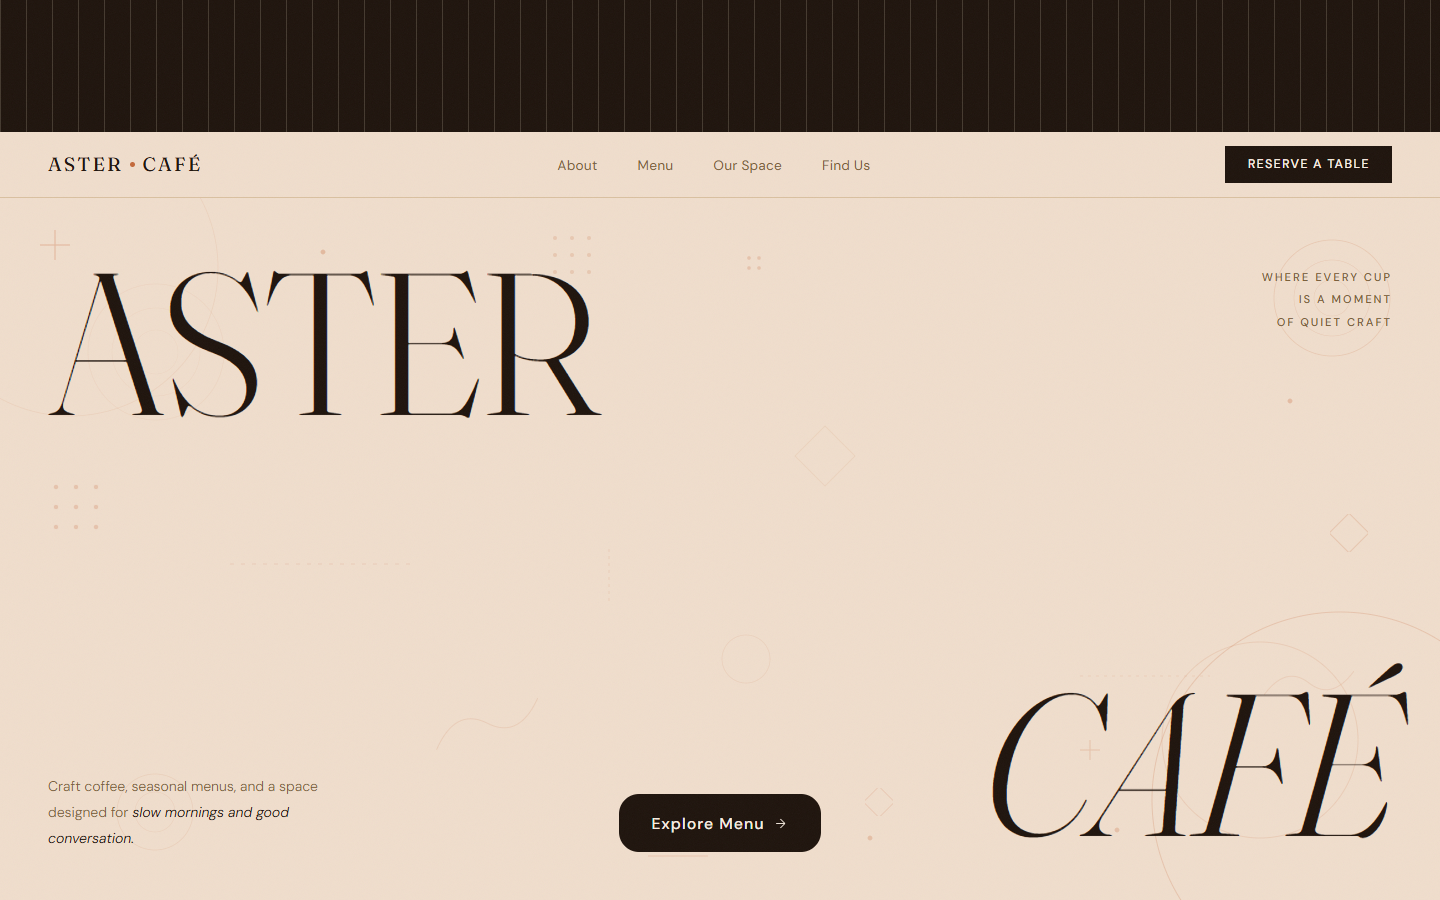
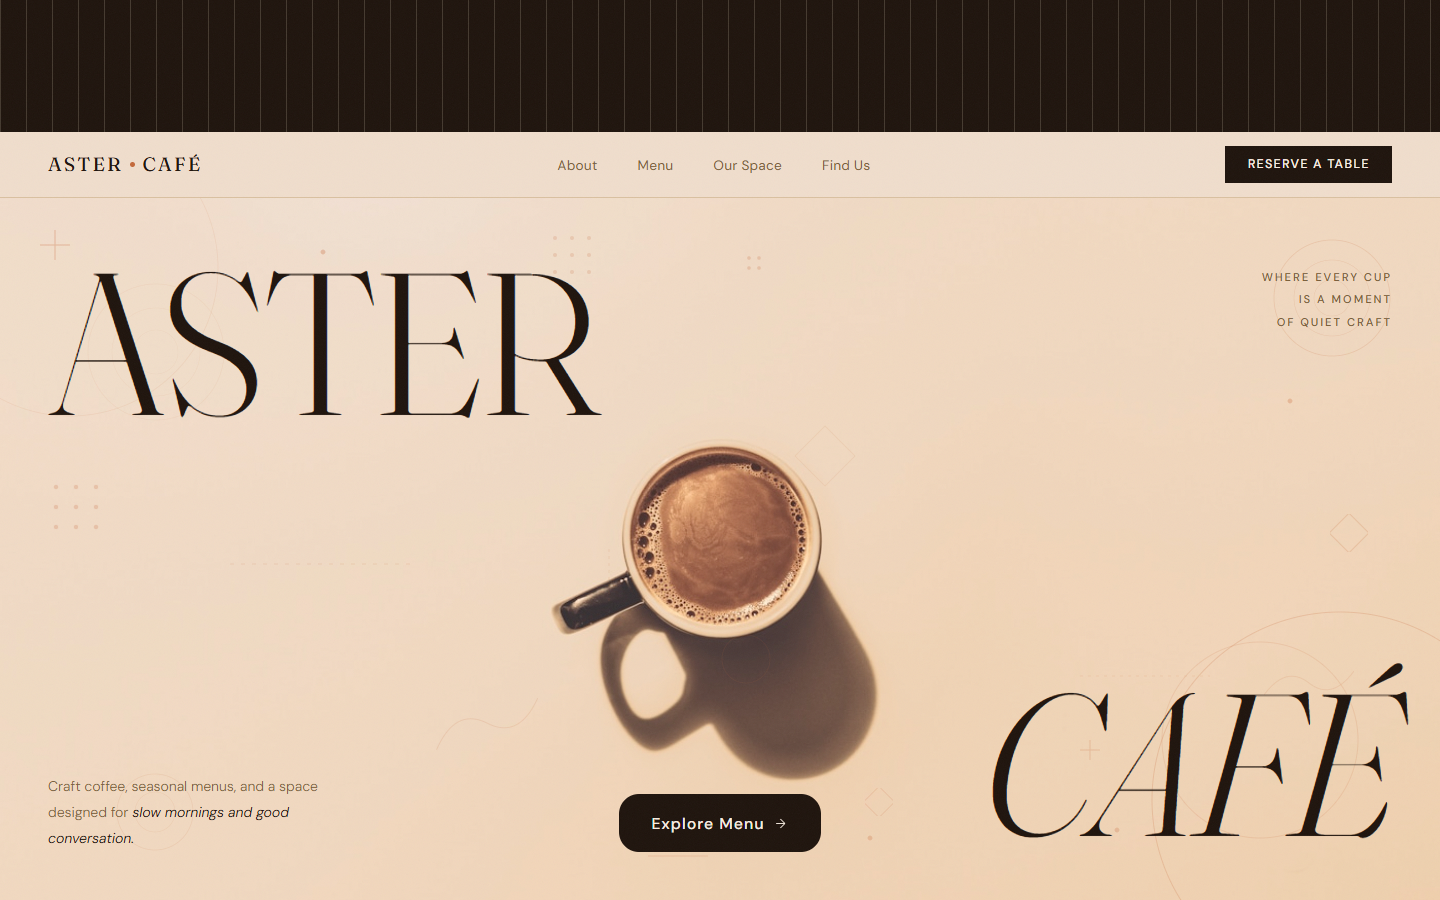
Polish: centered go-plate (+magnetic, dark-case contrast), labels on card, compact contacts, hero diagonal sash, scene bars, blend-contrast titles, Sokolov latin, cafe cup

Changed region(s): [[0.375, 0.4667, 0.6562, 0.9333], [0.5938, 0.7778, 1.0, 1.0]]

diff --git a/index.html b/index.html
@@ -91,7 +91,13 @@
   .hero::after{ content:""; position:absolute; left:0; right:0; bottom:0; height:34vh; pointer-events:none;
     background:linear-gradient(to bottom, transparent, var(--soberi-fill)); opacity:.5; }
   .hero .center{ position:relative; z-index:2; margin:auto 0; width:100%; }
-  .hero .kick{ font-family:"JetBrains Mono"; font-size:12px; letter-spacing:.24em; text-transform:uppercase; color:var(--garnet); margin-bottom:26px; }
+  /* толстая закрашенная диагональ-перевязь через весь hero — в тон фону, за текстом */
+  .hero-accent{ position:absolute; z-index:1; pointer-events:none;
+    top:60%; left:50%; width:200vw; height:clamp(320px,32vw,640px);
+    transform:translate(-50%,-50%) rotate(-27deg);
+    background:linear-gradient(160deg, var(--hero-bg-2), #dccaa9); opacity:.5; }
+  @media(max-width:1100px){ .hero-accent{ display:none; } }
+  .hero .kick{ font-family:"JetBrains Mono"; font-size:12px; letter-spacing:.24em; text-transform:uppercase; color:var(--garnet); margin-bottom:42px; }
   .hero h1{ font-family:"Bricolage Grotesque", system-ui, "Segoe UI", sans-serif; font-weight:800; font-size:clamp(44px,9.9vw,170px); line-height:1.04; letter-spacing:.005em; text-transform:uppercase; margin-left:-.045em; }
   .hero h1 .o{ color:transparent; -webkit-text-stroke:2px var(--ink); letter-spacing:.02em; transition:color .4s,-webkit-text-stroke .4s; cursor:default; }
   .hero h1 .o:hover{ color:var(--garnet); -webkit-text-stroke:2px var(--garnet); }
@@ -108,6 +114,7 @@
   .hero .btn-fill{ background:var(--ink); color:var(--hero-bg); transition:transform .35s cubic-bezier(.2,.8,.2,1); }
   .hero .btn-ghost{ background:transparent; border:1px solid var(--line); color:var(--ink); transition:border-color .25s; }
   .hero .btn-ghost:hover{ border-color:var(--ink); }
+  .hero .btn svg{ width:18px; height:18px; }
   .hero .price{ font-family:"JetBrains Mono"; font-size:13px; color:var(--ink-2); }
   .hero .foot{ position:relative; z-index:2; display:flex; align-items:center; justify-content:space-between; gap:20px; }
   .hero .av{ display:inline-flex; align-items:center; gap:11px; border:1px solid var(--line); border-radius:999px; padding:11px 20px; font-family:"JetBrains Mono"; font-size:18px; letter-spacing:.03em; color:var(--ink); }
@@ -143,7 +150,12 @@
   .scene-label{
     position:absolute; top:26px; left:0; right:0; z-index:3; text-align:center;
     font-family:"JetBrains Mono"; font-size:12px; letter-spacing:.22em; text-transform:uppercase;
-    color:var(--stext, var(--ink-2)); opacity:.6;
+    color:#fff; mix-blend-mode:difference;   /* контраст к фону до появления заливки */
+  }
+  /* декоративная полоска у метки кейса */
+  .scene-bar{
+    position:absolute; top:54px; left:50%; transform:translateX(-50%); z-index:3;
+    width:50px; height:2px; border-radius:2px; background:var(--garnet); opacity:.65;
   }
 
   .card-wrap{ position:relative; z-index:5; display:flex; align-items:center; justify-content:center; }
@@ -154,7 +166,7 @@
     display:flex; flex-direction:column; align-items:stretch; justify-content:space-between;
     padding:4vh 0;
     font-family:"Bricolage Grotesque", system-ui, "Segoe UI", sans-serif; font-weight:800; text-transform:uppercase;
-    line-height:.9; color:var(--stext, var(--ink));
+    line-height:.9; color:#fff; mix-blend-mode:difference;   /* авто-контраст к фону под буквами */
   }
   /* строка = флекс-ряд букв, распределённых по ширине до краёв-лимитов */
   .case-title span{
@@ -233,35 +245,39 @@
     display:flex; align-items:center; justify-content:space-between; gap:10px;
     padding:14px 18px;
     color:var(--stext, var(--ink));   /* цвет под тему кейса (тёмный/кремовый) */
-    transform:translateZ(12px);  /* приподнят — заметный объём, но на карточке */
   }
   .card-cap b{ font-family:"Bricolage Grotesque", system-ui, "Segoe UI", sans-serif; font-weight:600; font-size:15px; }
   .card-cap span{ font-family:"JetBrains Mono"; font-size:11px; letter-spacing:.08em; opacity:.7; }
+  /* на тёмных кейсах — тень для читаемости нижней подписи */
+  .scene-dark .card-cap b, .scene-dark .card-cap span{ text-shadow:0 1px 12px rgba(0,0,0,.6); }
   .badge{
     position:absolute; top:14px; left:14px; z-index:2;
     font-family:"JetBrains Mono"; font-size:10px; letter-spacing:.1em; text-transform:uppercase;
     background:var(--garnet); color:#fff; padding:6px 11px; border-radius:999px;
-    transform:translateZ(22px);   /* заметный объём 3D */
-    box-shadow:0 12px 24px -9px rgba(0,0,0,.3);
+    box-shadow:0 8px 18px -8px rgba(0,0,0,.35);
   }
 
   /* плашка «Перейти на сайт» — выезжает сверху вниз */
   .go-plate{
-    position:absolute; z-index:1; left:50%; top:50%;   /* z НИЖЕ карточки => прячется под ней */
-    transform:translate(-50%,150px); opacity:0;
+    position:absolute; z-index:1; left:0; right:0; top:50%;   /* на всю ширину => кнопка строго по центру */
+    display:flex; justify-content:center;
+    transform:translateY(150px); opacity:0;
     will-change:transform,opacity;
   }
   .go-plate a{
     position:relative; overflow:hidden; isolation:isolate;
     display:inline-flex; align-items:center; gap:12px;
-    font-family:"Hanken Grotesk"; font-weight:600; font-size:16px;
+    font-family:"JetBrains Mono"; font-weight:600; font-size:13px; letter-spacing:.1em; text-transform:uppercase;
     color:#fff; text-decoration:none;
-    background:var(--ink); padding:16px 30px; border-radius:999px;
+    background:var(--ink); padding:17px 32px; border-radius:999px;
     box-shadow:0 24px 50px -18px rgba(27,23,20,.6);
     transition:background .35s ease, box-shadow .35s ease, transform .35s cubic-bezier(.2,.8,.2,1);
     will-change:transform;
   }
   .go-plate a:hover{ background:var(--garnet); box-shadow:0 26px 58px -16px rgba(158,43,69,.55); }
+  /* на тёмных кейсах — светлая плашка для контраста */
+  .scene-dark .go-plate a{ background:var(--hero-bg); color:var(--ink); box-shadow:0 24px 50px -18px rgba(0,0,0,.55); }
+  .scene-dark .go-plate a:hover{ background:var(--garnet); color:#fff; box-shadow:0 26px 58px -16px rgba(158,43,69,.6); }
   /* блик, пробегающий по кнопке при наведении */
   .go-plate a::before{
     content:''; position:absolute; top:0; left:-130%; width:70%; height:100%; z-index:1;
@@ -315,17 +331,18 @@
   .pbtn:hover{ background:var(--garnet); color:#fff; }
   .price-note{ margin-top:24px; font-family:"JetBrains Mono"; font-size:13px; color:var(--ink-2); }
 
-  .contact{ background:var(--ink); color:var(--hero-bg); }
+  .contact{ background:var(--ink); color:var(--hero-bg); padding-block:clamp(54px,8vh,92px); }
   .contact .sec-kick{ color:#cf6b82; }
-  .contact h2{ color:var(--hero-bg); max-width:18ch; }
+  .contact h2{ color:var(--hero-bg); max-width:18ch; font-size:clamp(30px,4.6vw,56px); }
   .contact h2 em{ font-style:normal; color:var(--garnet); }
-  .contact-row{ margin-top:36px; display:flex; align-items:center; gap:24px; flex-wrap:wrap; }
-  .btn-big{ display:inline-flex; align-items:center; gap:12px; text-decoration:none; font-family:"Hanken Grotesk"; font-weight:600; font-size:18px; padding:18px 32px; border-radius:999px; background:var(--garnet); color:#fff; transition:transform .3s cubic-bezier(.2,.8,.2,1), box-shadow .3s; box-shadow:0 16px 34px -14px rgba(158,43,69,.7); }
+  .contact-row{ margin-top:28px; display:flex; align-items:center; gap:20px; flex-wrap:wrap; }
+  .btn-big{ display:inline-flex; align-items:center; gap:11px; white-space:nowrap; text-decoration:none; font-family:"JetBrains Mono"; font-weight:600; font-size:14px; letter-spacing:.08em; text-transform:uppercase; padding:16px 28px; border-radius:999px; background:var(--garnet); color:#fff; transition:transform .3s cubic-bezier(.2,.8,.2,1), box-shadow .3s; box-shadow:0 16px 34px -14px rgba(158,43,69,.7); }
+  .btn-big svg{ width:18px; height:18px; flex:none; }
   .btn-big:hover{ transform:translateY(-3px); box-shadow:0 22px 40px -14px rgba(158,43,69,.8); }
   .contact .hours{ font-family:"JetBrains Mono"; font-size:14px; color:rgba(237,228,211,.6); display:inline-flex; align-items:center; gap:10px; }
   .contact .hours .dot{ width:9px; height:9px; border-radius:50%; background:var(--green); position:relative; }
   .contact .hours .dot::after{ content:""; position:absolute; inset:0; border-radius:50%; background:var(--green); animation:pulse 1.9s ease-out infinite; }
-  .foot-bar{ margin-top:clamp(60px,10vh,120px); border-top:1px solid rgba(237,228,211,.14); padding-top:24px; display:flex; justify-content:space-between; gap:16px; flex-wrap:wrap; font-family:"JetBrains Mono"; font-size:12px; letter-spacing:.04em; color:rgba(237,228,211,.55); }
+  .foot-bar{ margin-top:clamp(40px,6vh,72px); border-top:1px solid rgba(237,228,211,.14); padding-top:22px; display:flex; justify-content:space-between; gap:16px; flex-wrap:wrap; font-family:"JetBrains Mono"; font-size:12px; letter-spacing:.04em; color:rgba(237,228,211,.55); }
   .foot-bar a{ color:inherit; text-decoration:none; }
   .foot-bar a:hover{ color:var(--hero-bg); }
 
@@ -347,8 +364,9 @@
       <nav class="navpill">
         <a href="#scenes">Работы</a><a href="#price">Прайс</a><a href="#about">О нас</a><a href="#contact">Контакты</a>
       </nav>
-      <a class="hcta" href="#contact">Обсудить проект <svg viewBox="0 0 24 24" fill="none" stroke="currentColor" stroke-width="2.2" stroke-linecap="round" stroke-linejoin="round"><path d="M7 17 17 7M8 7h9v9"/></svg></a>
     </header>
+
+    <div class="hero-accent" aria-hidden="true"></div>
 
     <div class="center">
       <div class="kick">Веб-студия · сайты для бизнеса · под ключ</div>
@@ -365,9 +383,9 @@
       </h1>
       <p class="sub">Под любую нишу — лендинг или сайт-визитка под ключ. Дизайн, код и запуск за&nbsp;3–5&nbsp;дней.</p>
       <div class="row">
-        <a class="btn btn-fill" id="heroCta" href="#contact">Обсудить проект →</a>
-        <a class="btn btn-ghost" href="#scenes">Смотреть работы</a>
-        <span class="price">от 30к</span>
+        <a class="btn btn-fill" id="heroCta" href="#contact">Обсудить проект
+          <svg viewBox="0 0 24 24" fill="none" stroke="currentColor" stroke-width="2" stroke-linecap="round" stroke-linejoin="round"><path d="M22 2 11 13"/><path d="M22 2 15 22l-4-9-9-4 20-7z"/></svg>
+        </a>
       </div>
     </div>
 
@@ -451,6 +469,9 @@
 
   <!-- HERO: барабан ниш + magnetic CTA -->
   <script>
+    // при перезагрузке — всегда в начало страницы
+    if ('scrollRestoration' in history) history.scrollRestoration = 'manual';
+    window.scrollTo(0, 0);
     (function(){
       var reduceH = matchMedia('(prefers-reduced-motion: reduce)').matches;
       var mouseH  = matchMedia('(hover:hover) and (pointer:fine)').matches;
@@ -485,11 +506,11 @@
     // ===== данные кейсов (порядок = цепочка фонов) =====
     const HERO_BG = '#ece2d0';
     const CASES = [
-      { name:'Soberi Party',    niche:'Дмитров · мастер-классы',  img:'soberi.png',  url:'https://soberi-party-dmitrov.vercel.app', badge:'Первая готовая работа · коммерческий', title:'Soberi Party', fill:'#f6e7e6', glow:'#f0d3d8', stext:'#1b1714' },
-      { name:'SILLAGE',         niche:'Москва · выставка парфюма', img:'sillage.png', url:'https://sillage-expo.vercel.app',          badge:'Концепт · luxury / экспо',             title:'SILLAGE',      fill:'#0e0c0d', glow:'#2a2013', stext:'#f0e7d6' },
-      { name:'Адвокат Соколов', niche:'Юридические услуги',        img:'lawyer.png',  url:'https://lawyer-sokolov.vercel.app',        badge:'Концепт · юр. услуги',                 title:'Соколов',      fill:'#11131a', glow:'#2a2414', stext:'#f0e7d6' },
-      { name:'Кайдзен Авто',    niche:'Москва · автосервис',       img:'kaizen.png',  url:'https://kaizen-teal.vercel.app',           badge:'Концепт · автосервис',                 title:'Kaizen',       fill:'#151414', glow:'#2e1a10', stext:'#f0e7d6' },
-      { name:'Aster Café',      niche:'Кафе · бренд',              img:'cafe.png',    url:'https://cafe-aster.vercel.app',            badge:'Концепт · общепит',                    title:'Aster Café',   fill:'#ece3d2', glow:'#e0d2bb', stext:'#1b1714' }
+      { name:'Soberi Party',    niche:'Дмитров · мастер-классы',  img:'soberi.png',  url:'https://soberi-party-dmitrov.vercel.app', badge:'Первая готовая работа · коммерческий', title:'Soberi Party', fill:'#f6e7e6', glow:'#f0d3d8', stext:'#1b1714', dark:false },
+      { name:'SILLAGE',         niche:'Москва · выставка парфюма', img:'sillage.png', url:'https://sillage-expo.vercel.app',          badge:'Концепт · luxury / экспо',             title:'SILLAGE',      fill:'#0e0c0d', glow:'#2a2013', stext:'#f0e7d6', dark:true },
+      { name:'Адвокат Соколов', niche:'Юридические услуги',        img:'lawyer.png',  url:'https://lawyer-sokolov.vercel.app',        badge:'Концепт · юр. услуги',                 title:'Sokolov',      fill:'#11131a', glow:'#2a2414', stext:'#f0e7d6', dark:true },
+      { name:'Кайдзен Авто',    niche:'Москва · автосервис',       img:'kaizen.png',  url:'https://kaizen-teal.vercel.app',           badge:'Концепт · автосервис',                 title:'Kaizen',       fill:'#151414', glow:'#2e1a10', stext:'#f0e7d6', dark:true },
+      { name:'Aster Café',      niche:'Кафе · бренд',              img:'cafe.png',    url:'https://cafe-aster.vercel.app',            badge:'Концепт · общепит',                    title:'Aster Café',   fill:'#ece3d2', glow:'#e0d2bb', stext:'#1b1714', dark:false }
     ];
 
     // ===== генерация разметки сцен =====
@@ -497,19 +518,18 @@
       const base = i === 0 ? HERO_BG : CASES[i-1].fill;
       const num = String(i+1).padStart(2,'0');
       const rows = [1,0.75,0.5,0.25].map(function(o){ return '<span data-o="'+o+'" style="--o:'+o+'">'+c.title+'</span>'; }).join('');
-      return '<section class="scene" style="--base:'+base+';--fill:'+c.fill+';--glow:'+c.glow+';--stext:'+c.stext+'">'+
+      return '<section class="scene'+(c.dark?' scene-dark':'')+'" style="--base:'+base+';--fill:'+c.fill+';--glow:'+c.glow+';--stext:'+c.stext+'">'+
         '<div class="stage">'+
           '<div class="fill"></div>'+
           '<div class="case-title" aria-hidden="true">'+rows+'</div>'+
           '<div class="scene-label">Кейс '+num+' — '+c.name+'</div>'+
+          '<div class="scene-bar"></div>'+
           '<div class="card-wrap">'+
             '<div class="card-scale"><div class="card-tilt"><div class="card-3d">'+
-              '<div class="face front"><img src="assets/cases/'+c.img+'" alt="'+c.name+' — главный экран"></div>'+
+              '<div class="face front"><span class="badge">'+c.badge+'</span><img src="assets/cases/'+c.img+'" alt="'+c.name+' — главный экран"><div class="card-cap"><b>'+c.name+'</b><span>'+c.niche+'</span></div></div>'+
               '<div class="face back"><div class="back-inner"><span class="back-tag">веб-студия</span><span class="back-mark">Studia</span><span class="back-sub">проектируем · кодим · запускаем</span></div></div>'+
-            '</div>'+
-            '<div class="card-float" aria-hidden="true"><span class="badge">'+c.badge+'</span><div class="card-cap"><b>'+c.name+'</b><span>'+c.niche+'</span></div></div>'+
-            '</div></div>'+
-            '<div class="go-plate"><a href="'+c.url+'" target="_blank" rel="noopener"><span class="go-label">Перейти на сайт</span><svg viewBox="0 0 24 24" fill="none" stroke="currentColor" stroke-width="2" stroke-linecap="round" stroke-linejoin="round"><path d="M7 17 17 7M8 7h9v9"/></svg></a></div>'+
+            '</div></div></div>'+
+            '<div class="go-plate"><a href="'+c.url+'" target="_blank" rel="noopener"><span class="go-label">Перейти на сайт</span></a></div>'+
           '</div>'+
         '</div>'+
       '</section>';
@@ -522,10 +542,10 @@
       const cardScale = scene.querySelector('.card-scale');
       const card3d = scene.querySelector('.card-3d');
       const cardTilt = scene.querySelector('.card-tilt');
-      const cardFloat = scene.querySelector('.card-float');
       const goPlate = scene.querySelector('.go-plate');
       const goLink = goPlate.querySelector('a');
       const label = scene.querySelector('.scene-label');
+      const bar = scene.querySelector('.scene-bar');
       const hoverZone = scene.querySelector('.card-wrap');
       const spans = [].slice.call(scene.querySelectorAll('.case-title span'));
 
@@ -535,7 +555,7 @@
         text.split('').forEach(function(ch){ const it=document.createElement('i'); if(ch===' ') it.className='sp'; else it.textContent=ch; span.appendChild(it); });
       });
 
-      function platePos(){ const half = cardScale.offsetHeight*1.25/2; const ph = goPlate.offsetHeight||56; return { hidden:half-ph-4, shown:half+10 }; }
+      function platePos(){ const half = cardScale.offsetHeight*1.25/2; const ph = goPlate.offsetHeight||56; return { hidden:half-ph-4, shown:half+24 }; }
 
       // 3D-наклон за курсором
       const TILT = 28;
@@ -546,7 +566,7 @@
           cardTilt.style.transform = 'rotateX('+(-py*TILT).toFixed(2)+'deg) rotateY('+(px*TILT).toFixed(2)+'deg)'; });
         hoverZone.addEventListener('pointerleave', resetTilt);
       }
-      // magnetic + spotlight на «Перейти на сайт»
+      // magnetic + спотлайт за курсором (центр держит flex-обёртка, magnetic поверх и сбрасывается)
       if (mouse){
         goLink.addEventListener('pointermove', function(e){ const r=goLink.getBoundingClientRect();
           goLink.style.transform = 'translate('+((e.clientX-r.left-r.width/2)*0.3).toFixed(1)+'px,'+((e.clientY-r.top-r.height/2)*0.3).toFixed(1)+'px)';
@@ -559,27 +579,20 @@
         gsap.set(cardScale, { y:0, scale:1.2, autoAlpha:1 });
         gsap.set(card3d, { rotateX:0, rotateZ:0 });
         spans.forEach(function(el){ gsap.set(el, { opacity:parseFloat(el.dataset.o), visibility:'visible' }); });
-        gsap.set(goPlate, { xPercent:-50, y:platePos().shown, autoAlpha:1 });
-        gsap.set(cardFloat, { autoAlpha:1 });
+        gsap.set(goPlate, { y:platePos().shown, autoAlpha:1 });
         return;
       }
 
-      gsap.set(cardFloat, { autoAlpha:0 });
-      let floatShown = false;
-      const tl = gsap.timeline({ scrollTrigger:{ trigger:scene, start:'top top', end:'+=360%', scrub:0.8, pin:true, anticipatePin:1,
-        onUpdate:function(self){ const rx=gsap.getProperty(card3d,'rotateX')||0; const m=Math.abs(((rx%360)+360)%360);
-          const show=(m<2.5||m>357.5)&&self.progress>0.78;
-          if(show!==floatShown){ floatShown=show; gsap.to(cardFloat,{autoAlpha:show?1:0,duration:1.0,ease:'sine.inOut',overwrite:true}); } }
-      }});
+      const tl = gsap.timeline({ scrollTrigger:{ trigger:scene, start:'top top', end:'+=360%', scrub:0.8, pin:true, anticipatePin:1 }});
       tl.fromTo(cardScale, { autoAlpha:0 }, { autoAlpha:1, ease:'power1.out', duration:.08 }, 0);
       tl.fromTo(cardScale, { y:-vh()*0.34, scale:.09 }, { y:0, scale:1.25, ease:'power2.out', duration:1 }, 0);
       tl.fromTo(card3d, { rotateX:0, rotateZ:0 }, { rotateX:2520, rotateZ:720, ease:'power2.out', duration:1 }, 0);
       spans.forEach(function(el,i){ const o=parseFloat(el.dataset.o); const order=spans.length-1-i;
         tl.fromTo(el, { opacity:0, visibility:'hidden', yPercent:70 }, { opacity:o, visibility:'visible', yPercent:0, ease:'power2.out', duration:.32 }, order*0.07); });
       tl.fromTo(fill, { clipPath:'circle(0% at 50% 50%)' }, { clipPath:'circle(150% at 50% 50%)', ease:'power2.inOut', duration:.67 }, .15);
-      tl.to(label, { opacity:0, duration:.2, ease:'none' }, .3);
+      tl.to([label, bar], { opacity:0, duration:.2, ease:'none' }, .3);
       const pp = platePos();
-      tl.fromTo(goPlate, { xPercent:-50, y:pp.hidden, autoAlpha:0 }, { xPercent:-50, y:pp.shown, autoAlpha:1, ease:'power3.out', duration:.14 }, .86);
+      tl.fromTo(goPlate, { y:pp.hidden, autoAlpha:0 }, { y:pp.shown, autoAlpha:1, ease:'power3.out', duration:.14 }, .86);
       tl.to(goPlate, { autoAlpha:1, duration:.2 });   // холд-буфер
     }
 
@@ -590,6 +603,8 @@
     gsap.utils.toArray('.rv').forEach(function(el,i){ el.style.transitionDelay = ((i%4)*0.06)+'s'; io.observe(el); });
 
     ScrollTrigger.refresh();
+    window.scrollTo(0, 0);
+    window.addEventListener('load', function(){ window.scrollTo(0, 0); ScrollTrigger.refresh(); });
   </script>
 </body>
 </html>

diff --git a/tools/capture.js b/tools/capture.js
@@ -31,7 +31,24 @@ const sleep = (ms) => new Promise((r) => setTimeout(r, ms));
     await page.setViewport({ width: 1440, height: 900, deviceScaleFactor: 1 });
     try {
       await page.goto(s.url, { waitUntil: 'domcontentloaded', timeout: 45000 });
-      await sleep(7000); // даём анимациям появления доиграть
+      await sleep(2500);
+      // прокрутка вниз — подгрузить ленивые изображения, затем вернуться наверх
+      await page.evaluate(async () => {
+        await new Promise((res) => {
+          let y = 0;
+          const step = () => { window.scrollBy(0, 700); y += 700;
+            if (y < document.body.scrollHeight) setTimeout(step, 120); else res(); };
+          step();
+        });
+      });
+      await sleep(1500);
+      await page.evaluate(() => window.scrollTo(0, 0));
+      // ждём, пока все картинки в hero реально декодируются
+      try { await page.evaluate(async () => {
+        const imgs = Array.from(document.images);
+        await Promise.all(imgs.map(im => im.complete ? 1 : new Promise(r => { im.onload = im.onerror = r; })));
+      }); } catch (e) {}
+      await sleep(6000); // дать hero-анимации доиграть после возврата наверх
       const out = path.join(OUT, s.name + '.png');
       await page.screenshot({ path: out });
       console.log('OK  ' + s.name + ' -> ' + out);